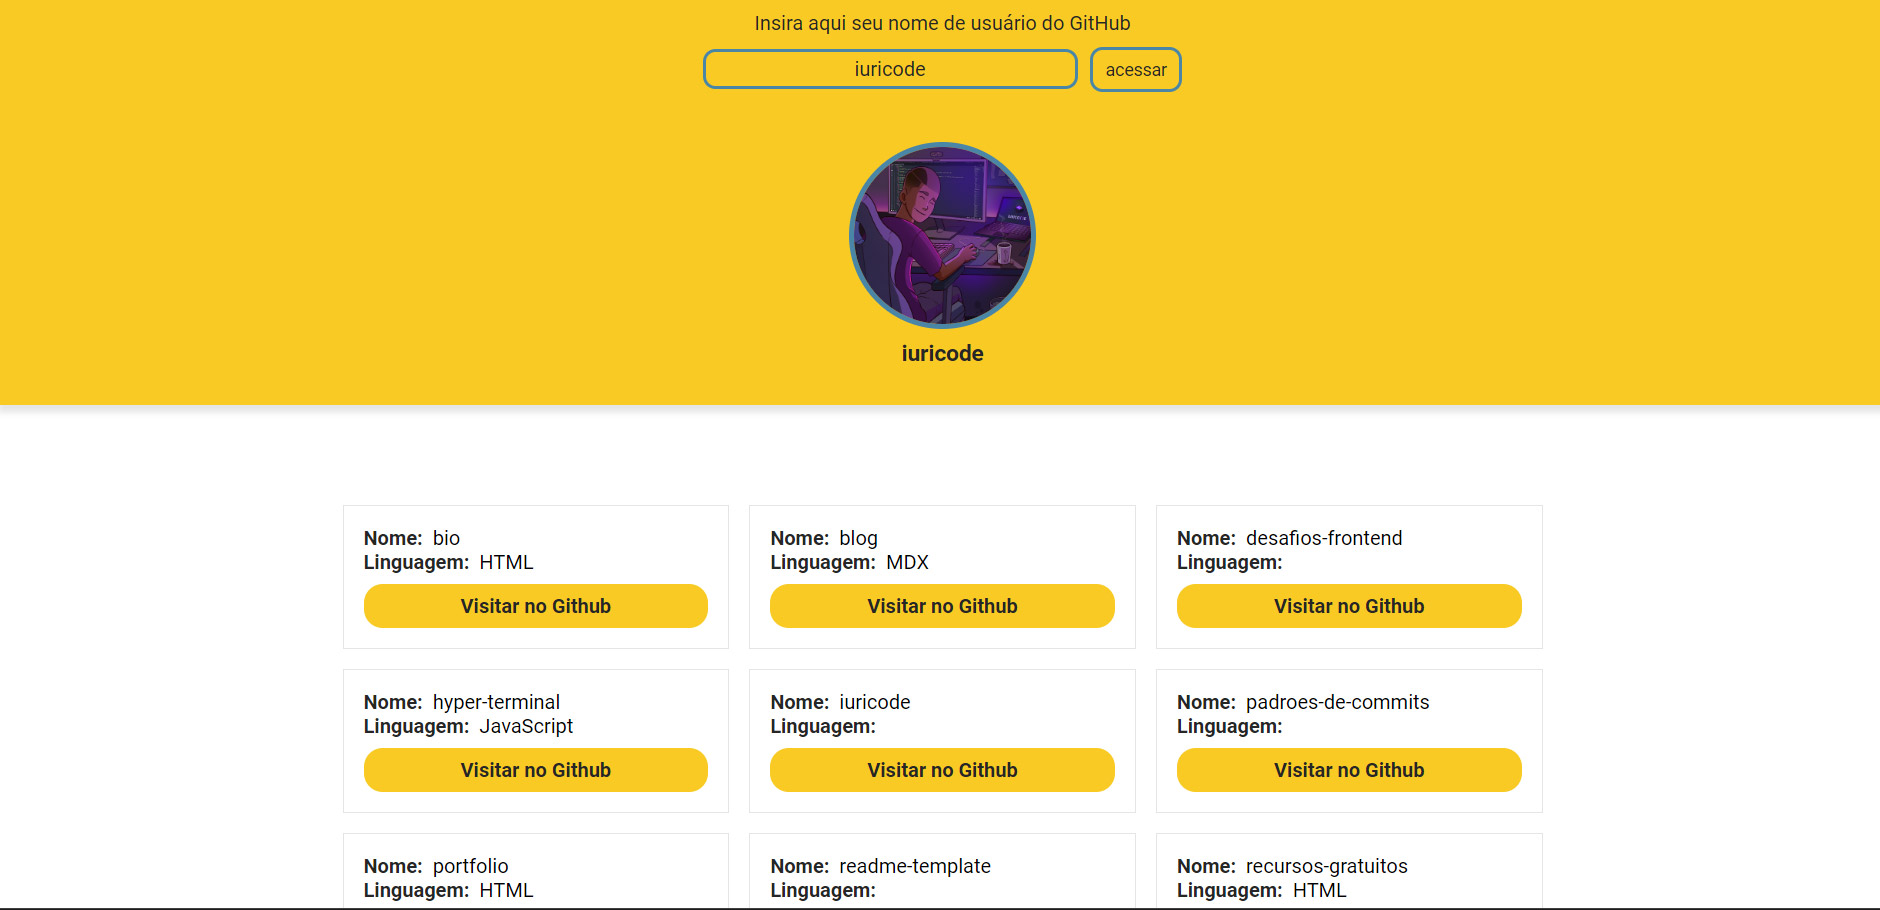
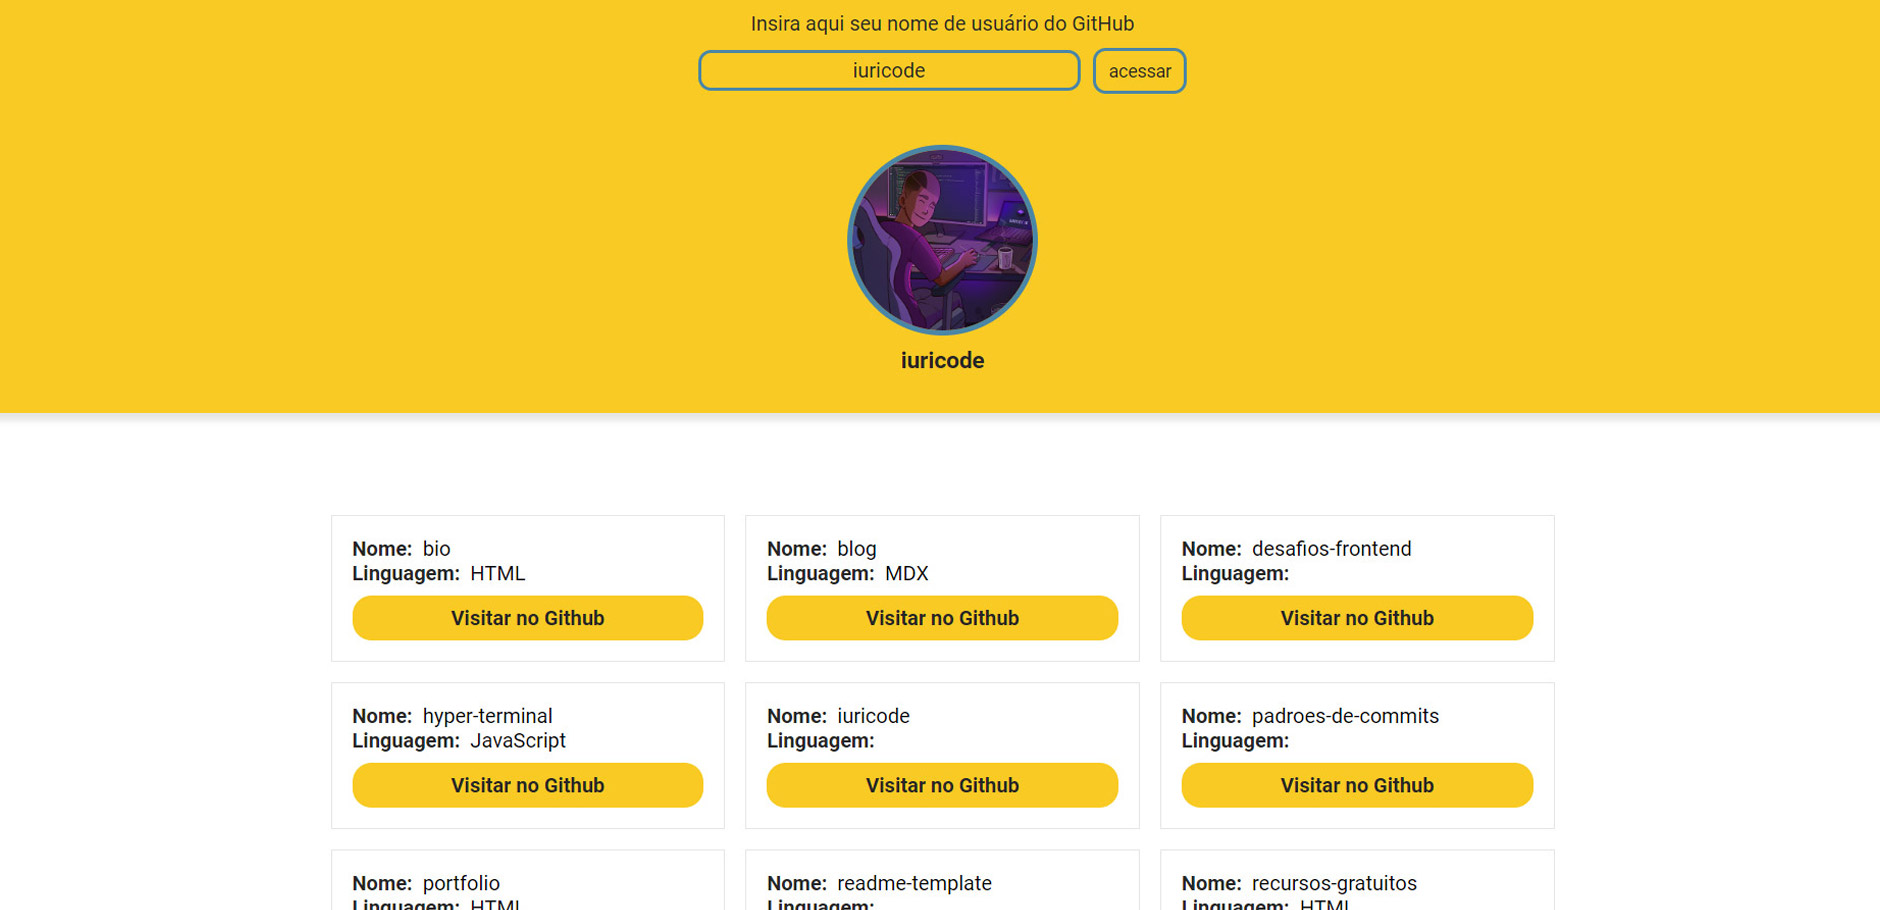
atualizando cores

diff --git a/src/Pages/Home/MyPortfolio.css b/src/Pages/Home/MyPortfolio.css
@@ -31,14 +31,14 @@
     cursor: pointer;
     overflow: hidden;
     box-shadow: -2px -2px 8px 0px rgba(0, 0, 0, 0.0);
-    border: 1.5px solid var(--yellow);
+    border: 1.5px solid var(--blue);
     transition: all 0.3s;
   }
   .portfolio--section--card img{
     width: 100%;
     height: 100%;
     opacity: 1;
-    filter: saturate(0);
+    filter: saturate(0.6);
     transition: all 0.3s;
   }
   .portfolio--section--card img:hover{
@@ -140,21 +140,21 @@
   @media only screen and (max-width: 700px) {
     .portfolio--section {
       display: block;
-      padding: 70px 0px 100px 0px;
+      padding: 100px 0px 100px 0px;
     }
     .portfolio--section--heading{
-      font-size: 40px;
-      padding-left: 20px;
+      font-size: 2.5rem;
+      padding-left: 35px;
     }
     .portfolio--section--container {
       display: grid;
       margin: 0 auto;
-      width: 100%;
+      width: 85%;
       grid-template-columns: 1fr;
       align-items: center;
       justify-content: center;
       justify-items: center;
-      gap:0px;
+      gap:6px;
       z-index: 1;
     }
     .portfolio--section--card {
@@ -175,7 +175,7 @@
       margin: 0 auto;
     }
     .portfolio--project--slider{
-      padding: 0px;
+      padding: 2rem 0rem 0rem 0rem;
       margin: 0px;
       padding-bottom: 40px;
     }

diff --git a/src/Pages/Home/ContactMe.css b/src/Pages/Home/ContactMe.css
@@ -99,7 +99,7 @@
   @media only screen and (max-width: 700px) {
     .contact--section {
       display: block;
-      padding: 50px 0px 100px 0px;
+      padding: 80px 0px 100px 0px;
     }
 
     .contact--form--text {
@@ -108,7 +108,7 @@
     }
 
     .contact--section--heading {
-      font-size: 40px;
+      font-size: 2.3rem;
       text-align: center;
     }
 

diff --git a/src/Pages/Home/MySkills.css b/src/Pages/Home/MySkills.css
@@ -99,14 +99,14 @@
     }
 
     .skills--section--title {
-      font-size: 25px;
+      font-size: 1.5rem;
     }
 
     .skills--section--description {
-      font-size: 19px;
+      font-size: 1.23rem;
       font-style: normal;
       font-weight: 400;
-      line-height: 26px;
+      line-height: 1.9rem;
     }
 
     .skills--section--card:hover {

diff --git a/src/Pages/Home/Navbars/BottomNavBar.css b/src/Pages/Home/Navbars/BottomNavBar.css
@@ -13,7 +13,7 @@
         width: 100%;
         font-size: 30px;
         text-align: center;
-        color: var(--mediumColor);
+        color: var(--blue);
         background-color: var(--darkColor);
         align-items: center;
         justify-content: center;
